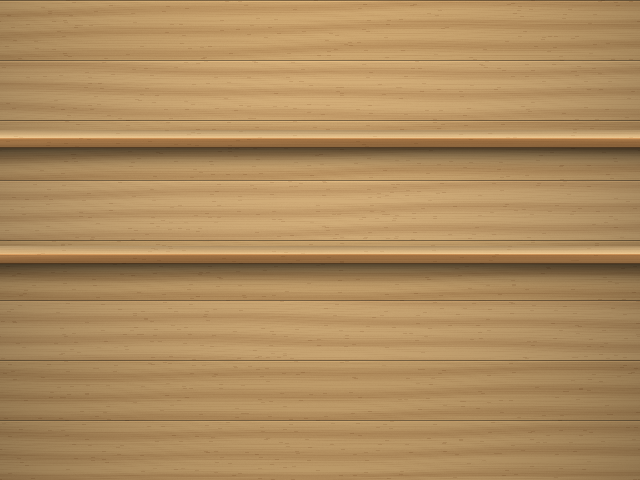
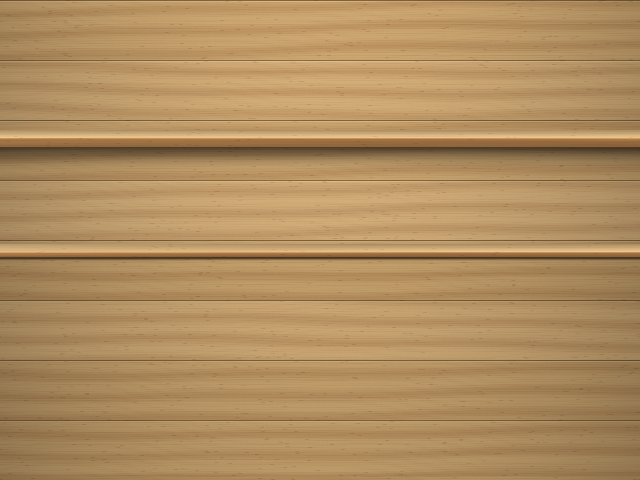
Polish every menu theme at 16:9 and 4:3, with The Time's widescreen wall fixed first (Dolphin: before/after shots for all eight themes; 114 host tests and both Wii builds pass)
The Time loaded its small 4:3 wall stretched across widescreen TVs, so the clock dials lost their shape and the figure left the right edge, and its bright dials sat behind the Settings, Mods and game-page text. It now loads its own wide wall on widescreen and paints those screens on its plain navy wall. Shared menu fixes help every theme: the widescreen picture is picked up at startup (it was skipped), the empty-library note is a wider card that fits long translations, the note comes back after leaving Settings, banner arrows sit where Home's arrows sit, and a view's own wall wins over the general wide one. Bookshelf's shelves line up with the cover rows again at both widths with room for the game's name, and Indigo's focused tiles are darker so the light names on them read well. No new words, no new pictures to translate.

Changed region(s): [[0.0, 0.5, 1.0, 0.5938]]

diff --git a/wii/menu/rift_menu.cpp b/wii/menu/rift_menu.cpp
@@ -1852,10 +1852,10 @@ static ChannelChoice ShowChannel(int& index, int count, const std::string& first
 	f32 safeX, safeW;
 	Menu_SafeArea(&safeX, &safeW);
 	const int wide = safeX < 0 ? static_cast<int>(-safeX) : 0;
-	SkinButton prevBtn(skin::arrowLeft, skin::arrowLeftOver, 2, 10 - wide, 155, nullptr,
+	SkinButton prevBtn(skin::arrowLeft, skin::arrowLeftOver, 2, 26 - wide, 155, nullptr,
 		WPAD_BUTTON_LEFT | WPAD_CLASSIC_BUTTON_LEFT | WPAD_BUTTON_MINUS | WPAD_CLASSIC_BUTTON_MINUS, PAD_BUTTON_LEFT,
 		WIIDRC_BUTTON_LEFT | WIIDRC_BUTTON_MINUS);
-	SkinButton nextBtn(skin::arrowRight, skin::arrowRightOver, 2, 586 + wide, 155, nullptr,
+	SkinButton nextBtn(skin::arrowRight, skin::arrowRightOver, 2, 570 + wide, 155, nullptr,
 		WPAD_BUTTON_RIGHT | WPAD_CLASSIC_BUTTON_RIGHT | WPAD_BUTTON_PLUS | WPAD_CLASSIC_BUTTON_PLUS, PAD_BUTTON_RIGHT,
 		WIIDRC_BUTTON_RIGHT | WIIDRC_BUTTON_PLUS);
 	// Favourite: a small round button in the top right corner (or 1), its
@@ -2346,7 +2346,7 @@ private:
 // the empty tiles of the second row.
 class EmptyHomeNote : public GuiElement {
 public:
-	static constexpr int kW = 440, kH = 146, kTop = 136;
+	static constexpr int kW = 520, kH = 184, kTop = 112;
 	EmptyHomeNote()
 		: words(riftwii::wii::Settings().sd_games == "off"
 			? std::string(tr("No games found yet. The SD card is not searched (Settings > Drives). Put your games (WBFS, ISO or RVZ) in wbfs or games on the USB drive, then pick Look for games again in Settings.")) + " " + tr("A GameCube game goes in a folder of its own, as usb:/games/<its ID>/game.iso.")
@@ -2355,7 +2355,8 @@ public:
 		  text(words.c_str(), 16, skin::kInk) {
 		// Without a parent, x is where the centre goes on the screen.
 		text.SetAlignment(ALIGN_H::CENTRE, ALIGN_V::TOP);
-		text.SetWrap(true, kW - 40, 6);
+		// Leave room for the GameCube paths in the longer translations.
+		text.SetWrap(true, kW - 40, 8);
 	}
 	void Draw() override {
 		if (!IsVisible()) return;
@@ -4580,7 +4581,13 @@ static int MenuSource(FrontendState& state)
 		shownScanStatus = riftwii::wii::DriveScanStatus();
 		return shownScanStatus;
 	};
-	const auto showStatus = [&]() { statusTxt.SetText(homeStatusText().c_str()); };
+	const auto showStatus = [&]() {
+		statusTxt.SetText(homeStatusText().c_str());
+		// Also restore the note when Home is rebuilt after leaving Settings.
+		// The first scan has not found its games yet, so it gets no note.
+		emptyNote.SetVisible(g_scanned && !g_scanning && state.sd_catalog.games.empty() &&
+			state.usb_catalog.games.empty() && state.channels.empty());
+	};
 	const auto refresh = [&](bool keepFocus, bool crossfade = true) {
 		// Another view, search or order: crossfaded (unless the screen is
 		// already changing some other way).
@@ -4593,9 +4600,6 @@ static int MenuSource(FrontendState& state)
 		SetHomeMovable(grid, entries);
 		grid.Focus(std::min(focus, std::max(0, static_cast<int>(items.size()) - 1)));
 		showStatus();
-		// Not "no games" while the drives are still being read.
-		emptyNote.SetVisible(!g_scanning && state.sd_catalog.games.empty() && state.usb_catalog.games.empty() &&
-			state.channels.empty());
 	};
 	// A tile across a refresh: its drive as well as its game (one game on
 	// both the card and the drive has two tiles with the same key), and
@@ -13209,11 +13213,12 @@ int MainMenu(int menu, FrontendState& state)
 {
 	int currentMenu = menu;
 
+	// Pick the native widescreen pictures using the saved display width.
+	riftwii::wii::ApplyMenuDisplay();
 	const u64 skinStart = gettime();
 	skin::Init();
 	logf("Startup: menu art drawn in %u ms\n", static_cast<unsigned>(diff_msec(skinStart, gettime())));
 	ApplyMenuSounds();
-	riftwii::wii::ApplyMenuDisplay();
 	const u64 musicStart = gettime();
 	riftwii::wii::MenuMusicStart();
 	logf("Startup: music started in %u ms\n", static_cast<unsigned>(diff_msec(musicStart, gettime())));

diff --git a/wii/menu/skin.cpp b/wii/menu/skin.cpp
@@ -186,13 +186,17 @@ Tex Pick(const ThemeImage& im) {
         std::vector<std::uint8_t> own;
         if (LoadThemeImage("bar", 640, 124, own)) return Tex();
     }
-    // The clock-dial theme paints its own (only the two: the others fall back to them).
+    // Keep the dials on Home, with a quiet wall behind other screens' text.
+    const bool clockHome = std::strcmp(im.name, "background") == 0 ||
+        std::strcmp(im.name, "background_wide") == 0;
+    const bool clockPlain = std::strcmp(im.name, "background_plain") == 0 ||
+        std::strcmp(im.name, "background_plain_wide") == 0;
     if (std::strncmp(im.name, "background", 10) == 0 &&
-        !(MenuTheme().clock_dials && (std::strcmp(im.name, "background") == 0 || std::strcmp(im.name, "background_wide") == 0)))
+        !(MenuTheme().clock_dials && (clockHome || clockPlain)))
         return Tex();
     Canvas c(0, 0);
     if (!paint_theme_image(im.name, MenuTheme(), c)) return Tex();
-    if (MenuTheme().clock_dials && std::strncmp(im.name, "background", 10) == 0) AddSoyjak(c);
+    if (MenuTheme().clock_dials && clockHome) AddSoyjak(c);
     return Upload(c);
 }
 
@@ -384,7 +388,9 @@ void EnsureBackgrounds() {
             if (std::strcmp(im.name, name) == 0) *tex = Pick(im);
     };
     for (Wall& w : walls) {
-        const bool paintsWide = MenuTheme().clock_dials && std::strcmp(w.wide_name, "background_wide") == 0;
+        const bool paintsWide = MenuTheme().clock_dials &&
+            (std::strcmp(w.wide_name, "background_wide") == 0 ||
+             std::strcmp(w.wide_name, "background_plain_wide") == 0);
         if (wide && (ThemeImageExists(w.wide_name) || paintsWide)) {
             if (!w.tried_wide) load(w.wide_name, w.wide_tex);
             w.tried_wide = true;
@@ -655,14 +661,14 @@ void GuiBackdrop::DrawBackdrop() {
         // Every other screen: the theme's plain wall when it has one
         // (Bookshelf: no shelves behind Settings' panels).
         if (wide && backgroundPlainWide.data) pick = &backgroundPlainWide;
-        else if (backgroundPlain.data && !(wide && backgroundWide.data)) pick = &backgroundPlain;
+        else if (backgroundPlain.data) pick = &backgroundPlain;
     } else if (g_homeWall == HomeWall::Shelf) {
         if (wide && backgroundShelfWide.data) pick = &backgroundShelfWide;
-        else if (backgroundShelf.data && !(wide && backgroundWide.data)) pick = &backgroundShelf;
+        else if (backgroundShelf.data) pick = &backgroundShelf;
     } else if (g_homeWall == HomeWall::Channels) {
         // Channels' own wall (Bookshelf: a shelf under each row of channels).
         if (wide && backgroundChannelsWide.data) pick = &backgroundChannelsWide;
-        else if (backgroundChannels.data && !(wide && backgroundWide.data)) pick = &backgroundChannels;
+        else if (backgroundChannels.data) pick = &backgroundChannels;
     }
     const Tex& picture = *pick;
     if (picture.data) {

diff --git a/tools/make_bookshelf_theme.py b/tools/make_bookshelf_theme.py
@@ -39,9 +39,13 @@ RNG = np.random.default_rng(1206)
 # shelf view's walls get the same planks.
 WALL_STATE = {}
 
-# Home's cover rows (wii/menu/gui_gamegrid.cpp: covers 80x112 drawn at
-# kCoverScale, 104 high, from y 30, 12 apart).
-COVER_ROW_BOTTOMS = (30 + 104, 30 + 104 + 12 + 104)
+# Home's cover rows (wii/menu/gui_gamegrid.cpp): 80x112 covers, rounded
+# to the nearest pixel after scaling, from y 30 with a 10-pixel gap.
+# Widescreen uses 1.2 instead of 0.925, so its shelves stand lower too.
+COVER_ROW_BOTTOMS = {
+    640: (30 + 104, 30 + 104 + 10 + 104),
+    856: (30 + 134, 30 + 134 + 10 + 134),
+}
 # Home's channels: three rows of 88 from y 30, 10 apart (wii/menu/gui_gamegrid.cpp).
 CHANNEL_ROW_BOTTOMS = (30 + 88, 30 + 88 + 10 + 88, 30 + 3 * 88 + 2 * 10)
 # The shelf view's plank (kShelfY in wii/menu/gui_shelf.cpp).
@@ -144,7 +148,9 @@ def shade(img, y0, y1, top, bottom):
     img[y0:y1] *= f
 
 
-def background(W=640, shelves=COVER_ROW_BOTTOMS):
+def background(W=640, shelves=None):
+    if shelves is None:
+        shelves = COVER_ROW_BOTTOMS[W]
     H = 480
     img = np.zeros((H, W, 3))
     # The wall: planks 60 high, each its own cut of the wood.
@@ -167,16 +173,23 @@ def background(W=640, shelves=COVER_ROW_BOTTOMS):
     # The shelves: a top the covers stand on, seen from a little above,
     # a front edge filling the gap to the next row, and a deep shadow.
     for bottom in shelves:
-        top_face, lip = 8, 10
+        # Leave plain, light wood behind the selected game's caption just
+        # below the last row. A deep front and shadow would cross its text.
+        last_shelf = bottom == shelves[-1]
+        top_face = 8
+        lip = 6 if last_shelf else 10
         y0 = bottom - top_face + 4
         img[y0:y0 + top_face] = wood(W, top_face, (232, 196, 142), (204, 162, 108), phase=bottom * 0.1, wave=2)
         shade(img, y0, y0 + top_face, 0.80, 1.02)
         ly = y0 + top_face
-        img[ly:ly + lip] = wood(W, lip, (176, 128, 78), (146, 100, 56), phase=bottom * 0.2, wave=2)
+        # Keep the same random sequence for the other theme pictures when
+        # trimming the last front edge from ten rows to six.
+        front = wood(W, 10, (176, 128, 78), (146, 100, 56), phase=bottom * 0.2, wave=2)
+        img[ly:ly + lip] = front[:lip]
         img[ly:ly + 1] = np.minimum(img[ly:ly + 1] * 1.25, 255)   # the lit front corner
         shade(img, ly + 1, ly + lip, 1.0, 0.78)
         img[ly + lip - 1:ly + lip] *= 0.6
-        sh = 26
+        sh = 4 if last_shelf else 26
         f = 1.0 - 0.55 * (1 - np.linspace(0, 1, sh)) ** 1.8
         img[ly + lip:ly + lip + sh] *= f[:, None, None]
     return np.clip(img, 0, 255).astype(np.uint8)

diff --git a/src/art/skinpaint.cpp b/src/art/skinpaint.cpp
@@ -896,8 +896,8 @@ struct Painter {
 
     // What the menu draws behind every screen without a background.png:
     // the backdrop colour, with a 2-pixel stripe every 4 rows.
-    Canvas Background(int w = 640) const {
-        if (dials) return Dials(w);
+    Canvas Background(int w = 640, bool decorated = true) const {
+        if (dials && decorated) return Dials(w);
         Canvas c(w, 480);
         c.fill(backdrop);
         if (stripes) {
@@ -910,7 +910,10 @@ struct Painter {
 }  // namespace
 
 void paint_hint_box(const Theme& theme, int w, int h, Canvas& out) {
-    out = Painter(theme).Card(w, h, kHintBoxMargin, h / 2.0f, false);
+    // A tall capsule cuts into the first and last lines of a wrapped note.
+    // Short hints keep their round ends; multiline notes get small corners.
+    const float radius = h <= 48 ? h / 2.0f : 18.0f;
+    out = Painter(theme).Card(w, h, kHintBoxMargin, radius, false);
 }
 
 void paint_clock_digits(const Theme& theme, Canvas& out) { out = Painter(theme).ClockDigits(); }
@@ -1066,8 +1069,8 @@ bool paint_theme_image(const std::string& name, const Theme& theme, Canvas& out)
         {"bar_wide", [](const Painter& q) { return q.Bar(856); }},
         {"background_shelf", [](const Painter& q) { return q.Background(640); }},
         {"background_shelf_wide", [](const Painter& q) { return q.Background(856); }},
-        {"background_plain", [](const Painter& q) { return q.Background(640); }},
-        {"background_plain_wide", [](const Painter& q) { return q.Background(856); }},
+        {"background_plain", [](const Painter& q) { return q.Background(640, false); }},
+        {"background_plain_wide", [](const Painter& q) { return q.Background(856, false); }},
         {"background_channels", [](const Painter& q) { return q.Background(640); }},
         {"background_channels_wide", [](const Painter& q) { return q.Background(856); }},
         {"banner_stripes", [](const Painter& q) { return q.Stripes(); }},

diff --git a/tests/theme_tests.cpp b/tests/theme_tests.cpp
@@ -503,6 +503,36 @@ static void test_painted_images() {
     EXPECT_TRUE(paint_theme_image("tile", square, square_tile));
     EXPECT_TRUE(square_tile.at(8, 8).a == 255);
     EXPECT_TRUE(round_tile.at(8, 8).a < square_tile.at(8, 8).a);
+
+    // Wrapped notes need an opaque backplate even near the ends of their
+    // first and last lines, where a tall capsule used to expose the tiles.
+    Canvas note(0, 0);
+    paint_hint_box(def, 520, 184, note);
+    for (int y : {12, 172}) {
+        for (int x : {20, 500}) {
+            EXPECT_EQ(int(note.at(kHintBoxMargin + x, kHintBoxMargin + y).a), 255);
+        }
+    }
+
+    // The clock dials belong to Home; Settings needs a plain wall at both
+    // widths so its read-only text cannot land on a bright clock face.
+    Theme clocks = red;
+    clocks.clock_dials = true;
+    for (const char* name : {"background_plain", "background_plain_wide"}) {
+        Canvas plain(0, 0);
+        EXPECT_TRUE(paint_theme_image(name, clocks, plain));
+        for (int y = 0; y < plain.height(); ++y) {
+            for (int x = 0; x < plain.width(); ++x) {
+                const Rgba pixel = plain.at(x, y);
+                EXPECT_TRUE(pixel.r == 1 && pixel.g == 2 && pixel.b == 3 && pixel.a == 255);
+            }
+        }
+    }
+    Canvas dials(0, 0);
+    Canvas plain_wide(0, 0);
+    EXPECT_TRUE(paint_theme_image("background_wide", clocks, dials));
+    EXPECT_TRUE(paint_theme_image("background_plain_wide", clocks, plain_wide));
+    EXPECT_TRUE(dials.pixels() != plain_wide.pixels());
 }
 
 // The stick and D-pad pictures RiftWii draws itself (the GameCube controls

diff --git a/tools/make_indigo_theme.py b/tools/make_indigo_theme.py
@@ -53,8 +53,8 @@ RIM = (214, 206, 255)        # the thin light rim
 # What every lit tile is filled with: gold-tinted glass, bronze enough that
 # the engine's white names (and the gold of Play's, accent_ink) stay readable
 # on it, since the engine draws no other text colour on a lit tile.
-GOLD_GLASS = dict(body_tl=(180, 128, 28), body_br=(110, 68, 12), sheen=0.20, reflection=0.10, rainbow_edge=0.0)
-GOLD_GLASS_PRIMARY = dict(body_tl=(136, 90, 16), body_br=(78, 46, 8), sheen=0.20, reflection=0.10, rainbow_edge=0.0)
+GOLD_GLASS = dict(body_tl=(108, 74, 22), body_br=(62, 38, 10), sheen=0.10, reflection=0.04, rainbow_edge=0.0)
+GOLD_GLASS_PRIMARY = dict(body_tl=(94, 60, 15), body_br=(48, 28, 8), sheen=0.10, reflection=0.04, rainbow_edge=0.0)
 
 INI = """[theme]
 name = Indigo
@@ -509,8 +509,7 @@ def main():
     tile = dict(body_tl=(70, 54, 160), body_br=(30, 40, 116), alpha=0.92, bevel=5.0)
     primary = dict(tile, body_tl=(96, 62, 178), body_br=(48, 38, 128))
     silver = dict(body_tl=(112, 108, 150), body_br=(56, 52, 96), alpha=0.97, bevel=4.0, rainbow_edge=0.35)
-    amber = dict(body_tl=(176, 126, 26), body_br=(104, 66, 10), alpha=1.0, bevel=4.0, rainbow_edge=0.0,
-                 sheen=0.10)
+    amber = dict(GOLD_GLASS, alpha=1.0, bevel=4.0)
     pictures = {
         "background": lambda: background(640),
         "background_wide": lambda: background(856),

diff --git a/docs/THEMES.md b/docs/THEMES.md
@@ -196,9 +196,13 @@ it:
   the whole background, the bar's first and last 176 columns at its
   sides and its lowest 40 rows below it. Keep those parts plain (no
   words or shapes) so the mirror images look like more of the same.
-- Rows stay where they are: Home's covers are at the same height on any
-  screen, so a background drawn to go with them (shelves under the
-  covers, as in Bookshelf) still lines up.
+- Home's covers are larger on 16:9. At normal spacing their two rows end
+  at y 134 and 248 on 4:3, and y 164 and 308 on 16:9. A background with
+  shelves under those covers needs both sizes, as Bookshelf provides.
+  Leave the area below the last shelf light enough for the game's name.
+- A view's own background takes precedence over the general background.
+  If its `_wide` picture is absent, its 640-pixel picture is mirrored at
+  the sides, even when the theme supplies a general `background_wide`.
 
 ## Music
 
